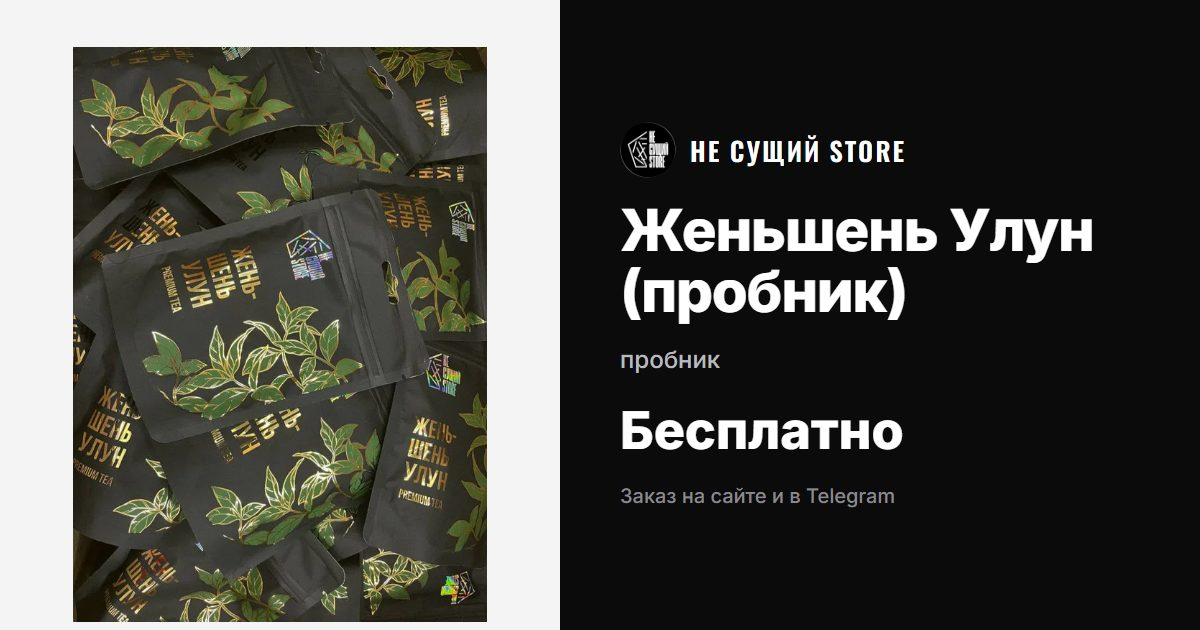
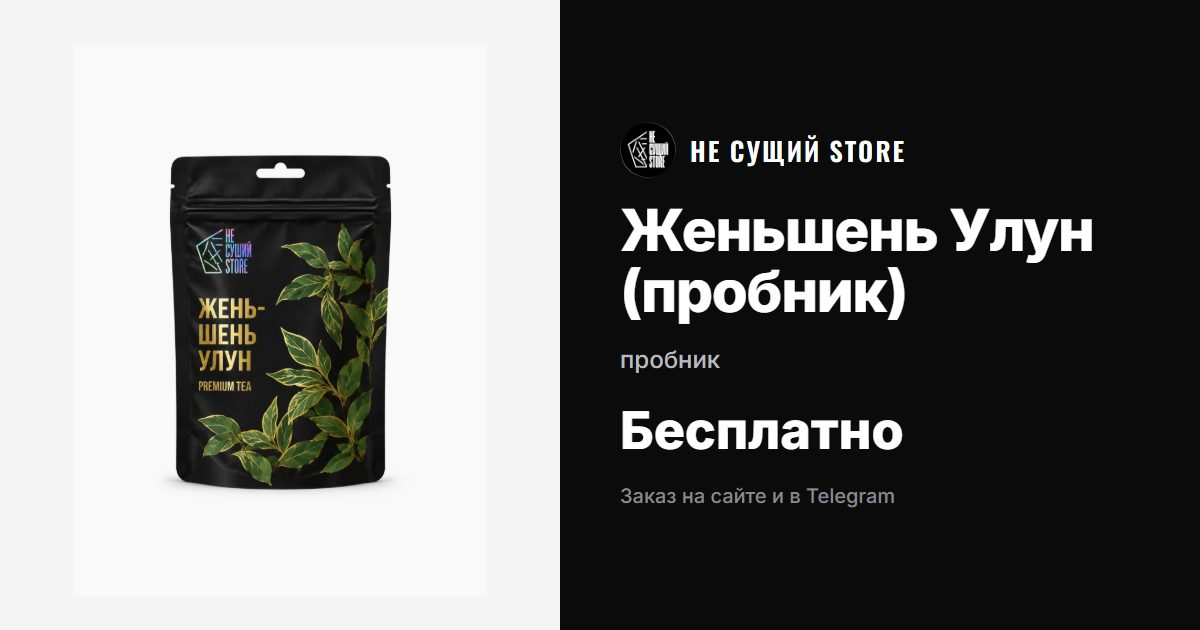
Сайт: 2b0e712 Новые фото: четыре чая, Горный покой, мухомор, CAPITAL, Биотин, набор пробников и подарок

diff --git a/products.js b/products.js
@@ -466,9 +466,9 @@ const PRODUCTS = [
     "name": "Биотин",
     "pack": "5000 мкг · 90 таблеток",
     "price": 1900,
-    "img": "p/biotin.webp?v=1465ada2",
+    "img": "p/biotin.webp?v=c563ac0a",
     "gallery": [
-      "p/biotin.webp?v=1465ada2",
+      "p/biotin.webp?v=c563ac0a",
       "p/biotin-1.webp?v=925cbd7d"
     ],
     "tagline": "Для качества волос и метаболизма",
@@ -2351,9 +2351,9 @@ const PRODUCTS = [
     "name": "Шляпки Красного Мухомора",
     "pack": "50 г · вакуум",
     "price": 4900,
-    "img": "p/amanita-caps.webp?v=4b7293ab",
+    "img": "p/amanita-caps.webp?v=533c1932",
     "gallery": [
-      "p/amanita-caps.webp?v=4b7293ab"
+      "p/amanita-caps.webp?v=533c1932"
     ],
     "tagline": "",
     "desc": "Новый формат привычной добавки, который подарит вам новый опыт и еще более глубокие эффекты",
@@ -2403,9 +2403,9 @@ const PRODUCTS = [
     "name": "Да Хун Пао",
     "pack": "50 г",
     "price": 1200,
-    "img": "p/da-hong-pao.webp?v=82e2b541",
+    "img": "p/da-hong-pao.webp?v=534673e0",
     "gallery": [
-      "p/da-hong-pao.webp?v=82e2b541"
+      "p/da-hong-pao.webp?v=534673e0"
     ],
     "tagline": "",
     "desc": "В 1368 году росло всего несколько кустов данного чая, и они тщательно охранялись. Да Хун Пао был доступен только императорам и их приближенным",
@@ -2444,9 +2444,9 @@ const PRODUCTS = [
     "name": "Горный Покой",
     "pack": "50 г",
     "price": 890,
-    "img": "p/gorny-pokoy.webp?v=d2d8b9d8",
+    "img": "p/gorny-pokoy.webp?v=40896a40",
     "gallery": [
-      "p/gorny-pokoy.webp?v=d2d8b9d8"
+      "p/gorny-pokoy.webp?v=40896a40"
     ],
     "tagline": "",
     "desc": "«Горный Покой» – это травяной сбор, который не содержит кофеина, а значит не наносит удар по ЦНС. Прекрасно расслабляет вечером и готовит тело ко сну. Усиливает действие всех вечерних добавок (ашваганды, мухомора, магния)",
@@ -2464,9 +2464,9 @@ const PRODUCTS = [
     "name": "RED DRAGON GABA",
     "pack": "100 г",
     "price": 2500,
-    "img": "p/gaba.webp?v=480abedf",
+    "img": "p/gaba.webp?v=00820b7b",
     "gallery": [
-      "p/gaba.webp?v=480abedf"
+      "p/gaba.webp?v=00820b7b"
     ],
     "tagline": "",
     "desc": "Наша Габа – улун из Тайваня, где производят один из самых дорогих «сортов» чая. Его ценят за особую технологию ферментации, благодаря которой в чайном листе образуется высокое содержание ГАМК (гамма-аминомасляная кислота).",
@@ -2489,9 +2489,9 @@ const PRODUCTS = [
     "name": "Женьшень Улун",
     "pack": "100 г",
     "price": 1500,
-    "img": "p/ginseng-oolong.webp?v=c9ab1d70",
+    "img": "p/ginseng-oolong.webp?v=1a57581d",
     "gallery": [
-      "p/ginseng-oolong.webp?v=c9ab1d70"
+      "p/ginseng-oolong.webp?v=1a57581d"
     ],
     "tagline": "Чай для продуктивности",
     "desc": "Женьшеневый улун – это сорт китайского чая, в котором чайные листья сочетаются с измельчённым корнем женьшеня. Благодаря такому составу напиток оказывает комплексное тонизирующее и адаптогенное действие, что делает его полезным инструментом для поддержания высокой работоспособности.",
@@ -2517,9 +2517,9 @@ const PRODUCTS = [
     "name": "Шу Пуэр",
     "pack": "50 г",
     "price": 1500,
-    "img": "p/shu-puer.webp?v=7fe6a7d8",
+    "img": "p/shu-puer.webp?v=5039780c",
     "gallery": [
-      "p/shu-puer.webp?v=7fe6a7d8"
+      "p/shu-puer.webp?v=5039780c"
     ],
     "tagline": "",
     "desc": "Наш Шу Пуэр – традиционный сорт китайского чая, который используют для повышения энергичности и продуктивности:",
@@ -2548,9 +2548,9 @@ const PRODUCTS = [
     "name": "CAPITAL",
     "pack": "30 ml",
     "price": 12900,
-    "img": "p/capital.webp?v=6bf7bbd6",
+    "img": "p/capital.webp?v=a55fb92e",
     "gallery": [
-      "p/capital.webp?v=6bf7bbd6"
+      "p/capital.webp?v=a55fb92e"
     ],
     "tagline": "",
     "desc": "Вдохновлённый концепцией постоянного роста, преодоления преград и финансового успеха, я создал новое детище. Это не просто духи, это ежедневное напоминание самому себе, зачем ты пришёл в этот мир. Чтобы рвать ебучие пределы, нести максимум пользы людям и формировать большой капитал",
@@ -2581,10 +2581,10 @@ const PRODUCTS = [
     "pack": "ашваганда, мухомор, йохимбин, ежовик",
     "price": 0,
     "free": true,
-    "img": "p/samples.webp?v=34a97683",
+    "img": "p/samples.webp?v=06b47a1f",
     "gallery": [
-      "p/samples.webp?v=34a97683",
-      "p/samples-gift.webp?v=7c4b700c"
+      "p/samples.webp?v=06b47a1f",
+      "p/samples-gift.webp?v=8d5a0e26"
     ],
     "tagline": "Попробуйте 4 добавки бесплатно",
     "desc": "Бесплатный набор пробников НЕ СУЩИЙ STORE: четыре добавки, чтобы почувствовать эффект до покупки банки.",
@@ -2612,9 +2612,9 @@ const PRODUCTS = [
     "pack": "пробник",
     "price": 0,
     "free": true,
-    "img": "p/da-hong-pao.webp?v=82e2b541",
+    "img": "p/da-hong-pao.webp?v=534673e0",
     "gallery": [
-      "p/da-hong-pao.webp?v=82e2b541"
+      "p/da-hong-pao.webp?v=534673e0"
     ],
     "tagline": "Бесплатный пробник чая",
     "desc": "В 1368 году росло всего несколько кустов данного чая, и они тщательно охранялись. Да Хун Пао был доступен только императорам и их приближенным",
@@ -2630,9 +2630,9 @@ const PRODUCTS = [
     "pack": "пробник",
     "price": 0,
     "free": true,
-    "img": "p/ginseng-oolong.webp?v=c9ab1d70",
+    "img": "p/ginseng-oolong.webp?v=1a57581d",
     "gallery": [
-      "p/ginseng-oolong.webp?v=c9ab1d70"
+      "p/ginseng-oolong.webp?v=1a57581d"
     ],
     "tagline": "Бесплатный пробник чая",
     "desc": "Женьшеневый улун – это сорт китайского чая, в котором чайные листья сочетаются с измельчённым корнем женьшеня. Благодаря такому составу напиток оказывает комплексное тонизирующее и адаптогенное действие, что делает его полезным инструментом для поддержания высокой работоспособности.",

diff --git a/index.html b/index.html
@@ -24,12 +24,12 @@
   <!-- шрифты не блокируют первую отрисовку -->
   <link rel="preload" as="style" href="https://fonts.googleapis.com/css2?family=Inter:wght@400;500;600;700;800&family=Oswald:wght@500;600&display=swap" onload="this.onload=null;this.rel='stylesheet'">
   <noscript><link rel="stylesheet" href="https://fonts.googleapis.com/css2?family=Inter:wght@400;500;600;700;800&family=Oswald:wght@500;600&display=swap"></noscript>
-  <link rel="stylesheet" href="styles.css?v=fb9321e">
-  <link rel="stylesheet" href="mega.css?v=fb9321e">
-  <link rel="stylesheet" href="home.css?v=fb9321e">
-  <link rel="stylesheet" href="reviews.css?v=fb9321e">
-  <link rel="stylesheet" href="account.css?v=fb9321e">
-  <link rel="stylesheet" href="mobile.css?v=fb9321e">
+  <link rel="stylesheet" href="styles.css?v=2b0e712">
+  <link rel="stylesheet" href="mega.css?v=2b0e712">
+  <link rel="stylesheet" href="home.css?v=2b0e712">
+  <link rel="stylesheet" href="reviews.css?v=2b0e712">
+  <link rel="stylesheet" href="account.css?v=2b0e712">
+  <link rel="stylesheet" href="mobile.css?v=2b0e712">
 </head>
 <body>
   <!-- Иконки -->
@@ -409,12 +409,12 @@
 
   <div class="toast" id="toast" role="status"></div>
 
-  <script defer src="config.js?v=fb9321e"></script>
-  <script defer src="vendor/supabase.js?v=fb9321e"></script>
-  <script defer src="api.js?v=fb9321e"></script>
-  <script defer src="products.js?v=fb9321e"></script>
-  <script defer src="reviews.js?v=fb9321e"></script>
-  <script defer src="app.js?v=fb9321e"></script>
-  <script defer src="account.js?v=fb9321e"></script>
+  <script defer src="config.js?v=2b0e712"></script>
+  <script defer src="vendor/supabase.js?v=2b0e712"></script>
+  <script defer src="api.js?v=2b0e712"></script>
+  <script defer src="products.js?v=2b0e712"></script>
+  <script defer src="reviews.js?v=2b0e712"></script>
+  <script defer src="app.js?v=2b0e712"></script>
+  <script defer src="account.js?v=2b0e712"></script>
 </body>
 </html>

diff --git a/app.js b/app.js
@@ -37,7 +37,7 @@
     const avg = avgRating(list);
     return (avg ? `<b>★ ${fmtAvg(avg)}</b>` : "") + `<span>${list.length} ${plural(list.length, ["отзыв", "отзыва", "отзывов"])}</span>`;
   }
-  const CAT_IMG = { samples: "p/samples.webp?v=34a97683", sex: "p/maca.webp?v=623b2771", vit: "p/omega3.webp?v=f5de07de", life: "p/garlic.webp?v=0768534c", brain: "p/hericium.webp?v=05e00ac9", sport: "p/creatine.webp?v=c9769674", calm: "p/ashwagandha.webp?v=9e8bc937", tea: "p/da-hong-pao.webp?v=82e2b541", perfume: "p/capital.webp?v=6bf7bbd6" };
+  const CAT_IMG = { samples: "p/samples.webp?v=06b47a1f", sex: "p/maca.webp?v=623b2771", vit: "p/omega3.webp?v=f5de07de", life: "p/garlic.webp?v=0768534c", brain: "p/hericium.webp?v=05e00ac9", sport: "p/creatine.webp?v=c9769674", calm: "p/ashwagandha.webp?v=9e8bc937", tea: "p/da-hong-pao.webp?v=534673e0", perfume: "p/capital.webp?v=a55fb92e" };
 
   // ---------- Хранилище (корзина, избранное) ----------
   const load = (k, d) => { try { return JSON.parse(localStorage.getItem(k)) || d; } catch { return d; } };
@@ -280,8 +280,8 @@
     { cat: "brain", jars: ["alpha-gpc", "hericium", "theanine"] },
     { cat: "sport", jars: ["eaa", "creatine"] },
     { cat: "calm", jars: ["mg-glycinate", "ashwagandha", "amanita-extract"] },
-    { cat: "tea", photo: "p/da-hong-pao.webp?v=82e2b541" },
-    { cat: "perfume", photo: "p/capital.webp?v=6bf7bbd6" },
+    { cat: "tea", photo: "p/da-hong-pao.webp?v=534673e0" },
+    { cat: "perfume", photo: "p/capital.webp?v=a55fb92e" },
     { sets: true, name: "Наборы", photo: "p/bundle-amm.webp?v=73ed8c4b", n: BUNDLES.length },
   ];
   $("#cats").innerHTML = TILES.map((t, i) => {
